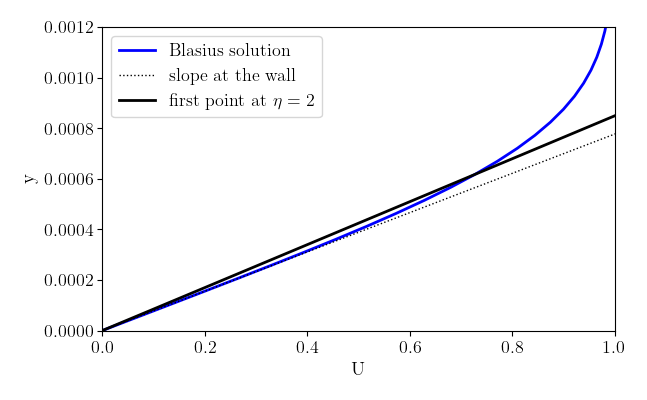
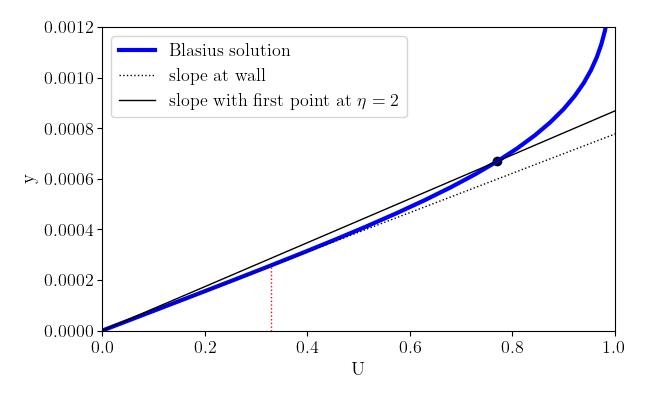
corrected blasisu

diff --git a/section2/blasius_example/blasius_compare.py b/section2/blasius_example/blasius_compare.py
@@ -20,14 +20,12 @@ nice_fonts = {
 
 def set_size(width, fraction=1):
     """ Set aesthetic figure dimensions to avoid scaling in latex.
-
     Parameters
     ----------
     width: float
             Width in pts
     fraction: float
             Fraction of the width which you wish the figure to occupy
-
     Returns
     -------
     fig_dim: tuple
@@ -50,60 +48,27 @@ def set_size(width, fraction=1):
     fig_dim = (fig_width_in, fig_height_in)
 
     return fig_dim
-    
-    
+
+
 
 mpl.rcParams.update(nice_fonts)
 plt.figure(figsize=set_size(width))
 
-data6533_s=np.loadtxt("65x33/stretched/result.dat", unpack=True)
-data6533_u=np.loadtxt("65x33/uniform/result.dat", unpack=True)
-data6550_u=np.loadtxt("65x50/results.dat", unpack=True)
-data6565_s=np.loadtxt("65x65/stretched/result.dat", unpack=True)
-data6565_u=np.loadtxt("65x65/uniform/result.dat", unpack=True)
-data65130_u=np.loadtxt("65x130/results.dat", unpack=True)
+eta,fp,y,u=np.loadtxt("blasius_data.dat", unpack=True)
+print(u[1]/y[1])
 
-plt.plot(data6533_u[1],data6533_u[0],label="65x33 uniform", color="b", alpha=0.25, lw=2)
-plt.plot(data6565_u[1],data6565_u[0],label="65x65 uniform", color="b", alpha=0.5, lw=2)
-plt.plot(data65130_u[1],data65130_u[0],label="65x130 uniform", color="b", lw=2)
-
-
-plt.plot(data6533_s[1],data6533_s[0],label="65x33 stretched", color="r", alpha=0.25, lw=2)
-plt.plot(data6550_u[1],data6550_u[0],label="65x50 stretched", color="r", alpha=0.5, lw=2)
-plt.plot(data6565_s[1],data6565_s[0],label="65x65 stretched", color="r", alpha=1, lw=2)
+plt.plot(u*69,y, color="b", lw=3,label="Blasius solution")
+plt.plot(y*u[1]/y[1]*69,y, "k:", lw=1,label="slope at wall")
+plt.plot([u[5]*69,u[5]*69],[0,y[5]], "r:", lw=1)
+plt.text(r"$\eta=1$",0.38,0.0002)
+plt.plot(y*u[13]/y[13]*69,y, "k", lw=1,label=r"slope with first point at $\eta=2$")
+plt.scatter(u[13]*69,y[13],color="k")
 plt.xlabel(r"U")
 plt.ylabel(r"y")
 plt.legend()
-plt.ylim(0,0.00185)
-plt.xlim(0,1.1)
-plt.tight_layout()
-plt.savefig("ARC4CFD_compareBL.png")
-
-
-
-
-data6533_s=np.loadtxt("65x33/stretched/resultT.dat", unpack=True)
-data6533_u=np.loadtxt("65x33/uniform/resultT.dat", unpack=True)
-data6550_u=np.loadtxt("65x50/results.dat", unpack=True)
-data6565_s=np.loadtxt("65x65/stretched/resultT.dat", unpack=True)
-data6565_u=np.loadtxt("65x65/uniform/resultT.dat", unpack=True)
-data65130_u=np.loadtxt("65x130/resultT.dat", unpack=True)
-
-
-plt.figure(figsize=set_size(width))
-plt.plot(data6533_u[1],data6533_u[0],label="65x33 uniform", color="b", alpha=0.25, lw=2)
-plt.plot(data6565_u[1],data6565_u[0],label="65x65 uniform", color="b", alpha=0.5, lw=2)
-plt.plot(data65130_u[1],data65130_u[0],label="65x130 uniform", color="b", lw=2)
-
-
-plt.plot(data6533_s[1],data6533_s[0],label="65x33 stretched", color="r", alpha=0.25, lw=2)
-#plt.plot(data6550_u[1],data6550_u[0],label="65x50 stretched", color="r", alpha=0.5, lw=2)
-plt.plot(data6565_s[1],data6565_s[0],label="65x65 stretched", color="r", alpha=1, lw=2)
-plt.xlabel(r"T")
-plt.ylabel(r"y")
+plt.ylim(0,0.0012)
+plt.xlim(0,1)
 plt.legend()
-plt.ylim(0,0.00185)
-plt.xlim(0.5,1.1)
 plt.tight_layout()
-plt.savefig("ARC4CFD_compareBL_T.png")
+plt.savefig("ARC4CFD_blasius.png")
 plt.show()
